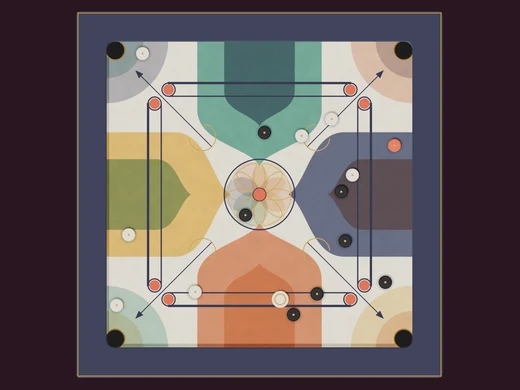
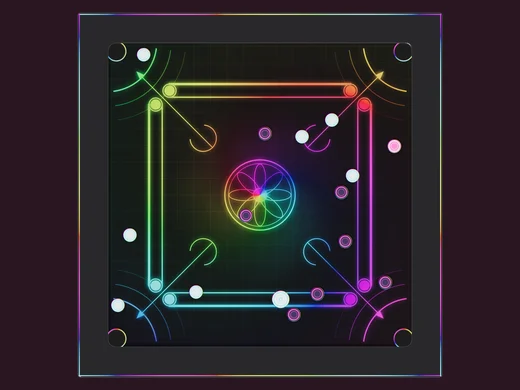
Carrom: neon is the default board (first in the list, top screenshot), new tycoon board (gold leaf, gems) (#1292)
Claude-Session: https://claude.ai/code/session_019p8B6UqeAdsK6vNEgpDiqd

diff --git a/atlas/models/carrom.js b/atlas/models/carrom.js
@@ -18,6 +18,9 @@
    · 'bauhaus'   geometry in primaries on off-white paper: a red circle, a blue square, a yellow triangle and black bars, the
               markings in black. A matte black frame with a sharp edge. Men in matte white and black, a red queen, a yellow
               striker with a black ring.
+   · 'tycoon'    a millionaire's board: a field of hammered gold leaf laid in tiles, engraved markings, ruby base circles and a ruby
+              centre, sunbursts engraved in the corners; a polished gold frame set with cabochon rubies, sapphires and emeralds
+              and a diamond at each corner. Men of pearl and onyx ringed in gold, a ruby queen, a gold coin for the striker.
    Real proportions (ICF laws): surface 74 cm, frame 7 cm, pockets 4.45 cm, men 3.18 cm, striker 4.13 cm.
    Registers into Table3D:
      Table3D.MODELS.carrom(live)   board (+ the opening arrangement and a striker unless live)
@@ -33,8 +36,8 @@
   const SZ = v => Math.round(v * (X.texScale ? X.texScale() : 1));
   const K = 10 / 88, S = 37 * K, FW = 7 * K, FH = 2.2 * K, TOP = .26, RP = 2.225 * K, PC = (37 - 2.225) * K;
   const RM = 1.59 * K, RS = 2.065 * K, HM = .8 * K, HS = .9 * K;
-  const LOOKS = ['classic', 'modern', 'neon', 'rajasthan', 'bauhaus'];
-  const PRE = { classic: '', modern: 'm', neon: 'n', rajasthan: 'r', bauhaus: 'h' };   // the piece-face kinds of each look
+  const LOOKS = ['classic', 'modern', 'neon', 'rajasthan', 'bauhaus', 'tycoon'];
+  const PRE = { classic: '', modern: 'm', neon: 'n', rajasthan: 'r', bauhaus: 'h', tycoon: 't' };   // the piece-face kinds of each look
   const lin = c => new (T().Color)(c).convertSRGBToLinear();
   function phys(o) {
     const TT = T(), p = Object.assign({}, o);
@@ -44,7 +47,7 @@
     return new TT[p.clearcoat !== undefined ? 'MeshPhysicalMaterial' : 'MeshStandardMaterial'](p);
   }
   const mats = {}, mat = (k, f) => mats[k] || (mats[k] = f());
-  const lookNow = () => X.BOARDS && X.BOARDS.carrom ? X.BOARDS.carrom.get() : 'modern';
+  const lookNow = () => X.BOARDS && X.BOARDS.carrom ? X.BOARDS.carrom.get() : 'neon';
 
   /* ---------- the playing surface: a canvas in board centimetres ---------- */
   const PAL = {
@@ -53,6 +56,7 @@
     neon: { ink: '#3ce6ff', red: '#ff3fb4', gold: '#b47bff', glow: 1.1 },
     rajasthan: { ink: '#5a1414', red: '#c7262c', gold: '#8a1c1c' },
     bauhaus: { ink: '#111111', red: '#d6332a', gold: null },
+    tycoon: { ink: '#3a2408', red: '#a3122c', gold: '#5a3a10' },
   };
   function markings(g, W, look) {
     const P = PAL[look], u = W / 74, X0 = cm => (cm + 37) * u;
@@ -89,7 +93,7 @@
   function surfaceTex(look) {
     const W = SZ(2048);
     const t = X.canvasTex('crSurf' + look + W, W, W, (g) => {
-      const N = X.makeNoise({ classic: 17, modern: 41, neon: 5, rajasthan: 29, bauhaus: 53 }[look]), img = g.createImageData(W, W), d = img.data;
+      const N = X.makeNoise({ classic: 17, modern: 41, neon: 5, rajasthan: 29, bauhaus: 53, tycoon: 71 }[look]), img = g.createImageData(W, W), d = img.data;
       const u = W / 74, X0 = cm => (cm + 37) * u;
       const paper = (r, gg, b, amp, f) => { for (let y = 0; y < W; y++) for (let x = 0; x < W; x++) { const n = N(x / W * f, y / W * f, 2), i = (y * W + x) * 4; d[i] = r - n * amp; d[i + 1] = gg - n * amp; d[i + 2] = b - n * amp; d[i + 3] = 255; } g.putImageData(img, 0, 0); };
       const grain = a => { const im = g.getImageData(0, 0, W, W), q = im.data; for (let i = 0; i < q.length; i += 4) { const r = (Math.random() - .5) * a; q[i] += r; q[i + 1] += r; q[i + 2] += r; } g.putImageData(im, 0, 0); };
@@ -143,6 +147,19 @@
         sh('#d6332a', .9, () => g.arc(X0(0), X0(0), 3.2 * u, 0, 7));
         g.globalCompositeOperation = 'source-over'; g.globalAlpha = 1;
         grain(8);
+      } else if (look === 'tycoon') {
+        // gold leaf in 4 cm tiles (each a touch different), hammered; engraved sunbursts in the corners and a medallion ring
+        for (let y = 0; y < W; y++) for (let x = 0; x < W; x++) {
+          const cx = Math.floor(x / W * 74 / 4), cy = Math.floor(y / W * 74 / 4), tv = (Math.sin(cx * 12.9898 + cy * 78.233) * 43758.5453) % 1;
+          const n = N(x / W * 60, y / W * 60, 2) * .6 + N(x / W * 9, y / W * 9, 2) * .4, k = n * 30 + Math.abs(tv) * 18, i = (y * W + x) * 4;
+          d[i] = 250 - k; d[i + 1] = 206 - k * .9; d[i + 2] = 112 - k * .7; d[i + 3] = 255;
+        }
+        g.putImageData(img, 0, 0);
+        g.strokeStyle = 'rgba(120,80,20,.35)'; g.lineWidth = .06 * u; for (let c = -36; c <= 36; c += 4) { g.beginPath(); g.moveTo(X0(c), 0); g.lineTo(X0(c), W); g.stroke(); g.beginPath(); g.moveTo(0, X0(c)); g.lineTo(W, X0(c)); g.stroke(); }
+        quad(() => { g.strokeStyle = 'rgba(90,58,16,.55)'; g.lineWidth = .12 * u; for (let k = 0; k <= 12; k++) { const a = Math.PI + k / 12 * Math.PI / 2; g.beginPath(); g.moveTo(X0(37 + Math.cos(a) * 4.5), X0(37 + Math.sin(a) * 4.5)); g.lineTo(X0(37 + Math.cos(a) * 14), X0(37 + Math.sin(a) * 14)); g.stroke(); } g.beginPath(); g.arc(X0(37), X0(37), 14.5 * u, Math.PI, Math.PI * 1.5); g.stroke(); });
+        g.strokeStyle = 'rgba(90,58,16,.6)'; g.lineWidth = .1 * u; for (const r of [9.4, 10.2]) { g.beginPath(); g.arc(X0(0), X0(0), r * u, 0, 7); g.stroke(); }
+        g.fillStyle = 'rgba(90,58,16,.55)'; for (let k = 0; k < 24; k++) { const a = k / 24 * Math.PI * 2; g.beginPath(); g.arc(X0(Math.cos(a) * 9.8), X0(Math.sin(a) * 9.8), .22 * u, 0, 7); g.fill(); }
+        grain(6);
       } else if (look === 'classic') {
         // birch plywood: pale honey, long soft grain along x, a slow colour drift; lacquered (the gloss is the material's)
         for (let y = 0; y < W; y++) for (let x = 0; x < W; x++) {
@@ -201,9 +218,10 @@
   const FACE = { w: '#efe0c0', b: '#2b201a', q: '#c0262a', s: '#f4f1ea', mw: '#ece5d6', mb: '#2c2b2e', mq: '#e1694f', ms: '#efe6d2',
     nw: '#d8f6ff', nb: '#2a1f48', nq: '#ff4fbd', ns: '#eefcff', rw: '#f1e4c4', rb: '#2a1a12', rq: '#c7262c', rs: '#f3e8cc',
     hw: '#f2efe6', hb: '#161616', hq: '#d6332a', hs: '#f2c230' };
+  Object.assign(FACE, { tw: '#f3eee4', tb: '#151317', tq: '#a3122c', ts: '#d9ad55' });
   const SIDE = { w: '#e7d3ad', b: '#211813', q: '#a91f22', s: '#ece8de', mw: '#e3dccb', mb: '#26252a', mq: '#d55d45', ms: '#e7dcc5',
     nw: '#bfeeff', nb: '#3a2a66', nq: '#ff2fa8', ns: '#d9f7ff', rw: '#e6d4ac', rb: '#1f130d', rq: '#a91f22', rs: '#e8d9b4',
-    hw: '#e8e4d8', hb: '#111111', hq: '#c42a22', hs: '#e3b322' };
+    hw: '#e8e4d8', hb: '#111111', hq: '#c42a22', hs: '#e3b322', tw: '#d9b866', tb: '#d9b866', tq: '#d9b866', ts: '#c99a45' };
   function faceTex(kind) {
     const t = X.canvasTex('crFace' + kind, SZ(256), SZ(256), (g, W) => {
       const c = W / 2, base = FACE[kind];
@@ -221,6 +239,17 @@
         else if (kind === 'rb') { dotRing(.74, 14, .065, '#d9ad45'); lotus(6, .08, .42, .18, '#c99a2e'); }
         else if (kind === 'rq') { ring(.8, .035, '#e6c25a'); lotus(8, .1, .62, .22, '#e6c25a'); }
         else { ring(.84, .04, '#b3262e'); lotus(8, .12, .66, .2, '#b3262e'); lotus(8, .1, .4, .14, '#c99a2e'); }
+      } else if (kind[0] === 't') {   // tycoon: pearl, onyx and ruby faces ringed in gold; the striker a gold coin with a crown
+        if (kind !== 'ts') {
+          if (kind === 'tw') { const gr = g.createRadialGradient(c * .8, c * .7, 0, c, c, c); gr.addColorStop(0, '#fffdf8'); gr.addColorStop(.6, '#efe6dc'); gr.addColorStop(1, '#e2d6e6'); g.fillStyle = gr; g.fillRect(0, 0, W, W); }
+          if (kind === 'tq') { for (let k = 0; k < 8; k++) { const a = k / 8 * Math.PI * 2; g.fillStyle = k % 2 ? 'rgba(255,255,255,.12)' : 'rgba(0,0,0,.14)'; g.beginPath(); g.moveTo(c, c); g.arc(c, c, c * .7, a, a + Math.PI / 4); g.closePath(); g.fill(); } }
+          ring(.86, .08, '#d4a64e'); ring(.62, .02, '#d4a64e');
+        } else {
+          ring(.84, .05, '#9a7128'); ring(.7, .015, '#9a7128');
+          g.fillStyle = '#8a6222'; g.beginPath(); const y0 = c * 1.22, y1 = c * .72;   // a crown
+          g.moveTo(c * .52, y0); g.lineTo(c * .48, y1); g.lineTo(c * .72, c * .95); g.lineTo(c, c * .6); g.lineTo(c * 1.28, c * .95); g.lineTo(c * 1.52, y1); g.lineTo(c * 1.48, y0); g.closePath(); g.fill();
+          g.fillRect(c * .5, c * 1.28, c, c * .1);
+        }
       } else if (kind[0] === 'h') {   // bauhaus: flat colour, one clean ring
         ring(.62, .06, { hw: '#111111', hb: '#f0ece2', hq: '#f2c230', hs: '#111111' }[kind]);
         if (kind === 'hs') { g.fillStyle = '#1f4fa3'; g.beginPath(); g.arc(c, c, c * .24, 0, 7); g.fill(); }
@@ -270,7 +299,7 @@
     const sh = new TT.Shape(); { const r = ro, a = -o, b = o; sh.moveTo(a + r, a); sh.lineTo(b - r, a); sh.quadraticCurveTo(b, a, b, a + r); sh.lineTo(b, b - r); sh.quadraticCurveTo(b, b, b - r, b); sh.lineTo(a + r, b); sh.quadraticCurveTo(a, b, a, b - r); sh.lineTo(a, a + r); sh.quadraticCurveTo(a, a, a + r, a); }
     const hole = new TT.Path(); { const r = ri, a = -S, b = S; hole.moveTo(a + r, a); hole.lineTo(b - r, a); hole.quadraticCurveTo(b, a, b, a + r); hole.lineTo(b, b - r); hole.quadraticCurveTo(b, b, b - r, b); hole.lineTo(a + r, b); hole.quadraticCurveTo(a, b, a, b - r); hole.lineTo(a, a + r); hole.quadraticCurveTo(a, a, a + r, a); }
     sh.holes.push(hole);
-    const bev = { modern: .02, bauhaus: .012, neon: .03 }[look] || .045;
+    const bev = { modern: .02, bauhaus: .012, neon: .03, tycoon: .05 }[look] || .045;
     const g = new TT.ExtrudeGeometry(sh, { depth: TOP + FH - bev * 2, bevelEnabled: true, bevelThickness: bev, bevelSize: bev, bevelSegments: LO() ? 2 : 3, curveSegments: LO() ? 4 : 8 });
     g.rotateX(-Math.PI / 2); g.translate(0, bev, 0);
     // UVs along the rails (wood grain runs along each rail)
@@ -332,6 +361,14 @@
         frame: phys({ map: fw, color: '#ffffff', roughness: .32, clearcoat: .8, clearcoatRoughness: .2, envMapIntensity: 1 }),
         brass, edge: brass, rim: brass, cup: phys({ color: '#0f0b08', roughness: .9 }), net: phys({ map: netTex(), color: '#ffffff', roughness: 1 }) };
     });
+    if (look === 'tycoon') return mat('bm' + look, () => {
+      const gold = phys({ color: '#f2c766', roughness: .16, metalness: 1, envMapIntensity: 1.6 }); gold.emissive = new TT.Color(0x5a3c0c);   // (a warm glow of its own: the rooms are too dim for polished metal)
+      const gem = (c, e) => { const m = phys({ color: c, roughness: .04, metalness: 0, clearcoat: 1, clearcoatRoughness: .02, envMapIntensity: 2.2 }); m.emissive = lin(e); return m; };
+      const st = surfaceTex(look), surf = phys({ map: st, color: '#ffffff', roughness: .28, metalness: .3, clearcoat: .7, clearcoatRoughness: .12, envMapIntensity: 1.2 }); surf.emissiveMap = st; surf.emissive = new TT.Color(.16, .13, .08);
+      return { surf,
+        frame: gold, brass: gold, edge: null, rim: gold, cup: phys({ color: '#120d06', roughness: .9 }), net: phys({ map: netTex(), color: '#ffffff', roughness: 1 }),
+        ruby: gem('#b5102e', '#3a0310'), sapphire: gem('#1d3fb0', '#06103a'), emerald: gem('#11895a', '#032a18'), diamond: gem('#f4f8ff', '#3a4250') };
+    });
     if (look === 'bauhaus') return mat('bm' + look, () => ({
       surf: phys({ map: surfaceTex(look), color: '#ffffff', roughness: .62, metalness: 0, envMapIntensity: .55 }),
       frame: phys({ color: '#141414', roughness: .55, metalness: 0, envMapIntensity: .6 }),
@@ -360,9 +397,11 @@
     const m = (PRE[look] || '') + c;
     return mat('pc' + m, () => {
       const t = faceTex(m), side = SIDE[m];
-      const glossy = look === 'classic' || look === 'rajasthan' || look === 'neon';
+      const glossy = look === 'classic' || look === 'rajasthan' || look === 'neon' || look === 'tycoon';
       const top = phys({ map: t, color: '#ffffff', roughness: glossy ? (c === 's' ? .3 : .38) : .62, clearcoat: glossy ? .35 : undefined, clearcoatRoughness: glossy ? .35 : undefined, envMapIntensity: glossy ? .85 : .6 });   // (no bump map: on discs this small it sparkled as the camera moved)
-      if (look === 'neon') { top.emissiveMap = t; top.emissive = new (T().Color)(.55, .55, .55); }   // acrylic lit from inside: the rings glow, the smoked men stay dark
+      if (look === 'neon') { top.emissiveMap = t; top.emissive = new (T().Color)(.55, .55, .55); }
+      if (look === 'tycoon') { top.roughness = c === 's' ? .25 : .2; top.clearcoat = .8; top.clearcoatRoughness = .08; if (c === 's') top.metalness = .85; }   // pearl, onyx, ruby polished; the coin is metal
+      if (look === 'tycoon') return { top, side: phys({ color: SIDE[m], roughness: .22, metalness: 1, envMapIntensity: 1.2 }) };   // acrylic lit from inside: the rings glow, the smoked men stay dark
       return { top, side: phys({ color: side, roughness: glossy ? .34 : .6, clearcoat: glossy ? .5 : undefined, clearcoatRoughness: glossy ? .25 : undefined, envMapIntensity: glossy ? .9 : .55 }) };
     });
   }
@@ -412,6 +451,18 @@
       const cup = new TT.Mesh(cupG, new TT.MeshStandardMaterial({ color: 0x0c0b0a, roughness: 1, side: TT.BackSide })); cup.position.set(sx * PC, (TOP + .05) / 2, sz * PC); g.add(cup);
       const net = new TT.Mesh(netG, BM.net); net.position.set(sx * PC, .07, sz * PC); g.add(net);
       if (BM.rim) { const rg = geos.prim || (geos.prim = (() => { const q = new TT.TorusGeometry(RP + .012, .014, 6, LO() ? 20 : 36); q.rotateX(Math.PI / 2); if (X.share) X.share(q); return q; })()); const rim = new TT.Mesh(rg, BM.rim); rim.position.set(sx * PC, TOP + .004, sz * PC); g.add(rim); }
+    }
+    if (BM.ruby) {   // cabochons along the frame (ruby · sapphire · emerald · sapphire · ruby …) and a diamond at each corner
+      const cab = geos.cab || (geos.cab = (() => { const q = new TT.SphereGeometry(.15, LO() ? 12 : 20, LO() ? 6 : 10, 0, Math.PI * 2, 0, Math.PI / 2); q.scale(1, .55, 1); if (X.share) X.share(q); return q; })());
+      const dia = geos.dia || (geos.dia = (() => { const q = new TT.OctahedronGeometry(.21, 0); q.scale(1, .8, 1); if (X.share) X.share(q); return q; })());
+      const set = geos.bez || (geos.bez = (() => { const q = new TT.TorusGeometry(.16, .022, 6, LO() ? 16 : 24); q.rotateX(Math.PI / 2); if (X.share) X.share(q); return q; })());
+      const ym = TOP + FH, mid = S + FW / 2, order = [BM.ruby, BM.sapphire, BM.emerald, BM.sapphire, BM.ruby];
+      for (let side = 0; side < 4; side++) for (let k = 0; k < 5; k++) {
+        const t = (k - 2) * S * .42, x = side < 2 ? t : (side === 2 ? -mid : mid), z = side < 2 ? (side === 0 ? -mid : mid) : t;
+        const st = new TT.Mesh(cab, order[k]); st.position.set(x, ym, z); st.castShadow = true; g.add(st);
+        const bz = new TT.Mesh(set, BM.frame); bz.position.set(x, ym + .004, z); g.add(bz);
+      }
+      for (const [sx, sz] of [[-1, -1], [1, -1], [-1, 1], [1, 1]]) { const dm = new TT.Mesh(dia, BM.diamond); dm.position.set(sx * mid, ym + .1, sz * mid); dm.rotation.y = Math.PI / 4; dm.castShadow = true; g.add(dm); }
     }
     if (BM.edge) {   // brass edging (a neon tube on the night board) along the frame's top outer edge
       const e = new TT.Mesh(new TT.BoxGeometry(2 * (S + FW) - .02, .012, .03), BM.edge);

diff --git a/atlas/tables3d.js b/atlas/tables3d.js
@@ -136,6 +136,7 @@
     neon: { ja: 'ネオン 3D', en: 'Neon 3D', zh: '霓虹 3D', ko: '네온 3D', es: 'Neón 3D', fr: 'Néon 3D', pt: 'Neon 3D', de: 'Neon 3D', hi: 'नियॉन 3D', ar: 'نيون ثلاثي', ru: 'Неон 3D', 'zh-TW': '霓虹 3D', id: '3D neon', tr: 'Neon 3D' },
     rajasthan: { ja: 'ラジャスタン 3D', en: 'Rajasthani 3D', zh: '拉贾斯坦 3D', ko: '라자스탄 3D', es: 'Rajastán 3D', fr: 'Rajasthan 3D', pt: 'Rajastão 3D', de: 'Rajasthan 3D', hi: 'राजस्थानी 3D', ar: 'راجستان ثلاثي', ru: 'Раджастхан 3D', 'zh-TW': '拉賈斯坦 3D', id: '3D Rajasthan', tr: 'Racastan 3D' },
     bauhaus: { ja: 'バウハウス 3D', en: 'Bauhaus 3D', zh: '包豪斯 3D', ko: '바우하우스 3D', es: 'Bauhaus 3D', fr: 'Bauhaus 3D', pt: 'Bauhaus 3D', de: 'Bauhaus 3D', hi: 'बाउहाउस 3D', ar: 'باوهاوس ثلاثي', ru: 'Баухаус 3D', 'zh-TW': '包浩斯 3D', id: '3D Bauhaus', tr: 'Bauhaus 3D' },
+    tycoon: { ja: '大富豪 3D', en: 'Tycoon 3D', zh: '大富豪 3D', ko: '대부호 3D', es: 'Magnate 3D', fr: 'Magnat 3D', pt: 'Magnata 3D', de: 'Tycoon 3D', hi: 'रईस 3D', ar: 'الثري ثلاثي', ru: 'Магнат 3D', 'zh-TW': '大富豪 3D', id: '3D Konglomerat', tr: 'Milyoner 3D' },
   };
   const BOARDS = {
     // atlas/skin/chess.js: 'atlas-chess-pc' = the piece set ('1' lux · 'wood' · '0' the 2D pieces), '-bd' = the board's wood
@@ -159,12 +160,12 @@
       get: () => { try { const d = (JSON.parse(ls.get('aicoding-senet') || '{}').settings || {}).design; return ['faience', 'papyrus', 'night'].includes(d) ? d : 'tut'; } catch (e) { return 'tut'; } },
       set: k => { try { const o = JSON.parse(ls.get('aicoding-senet') || '{}') || {}; o.settings = o.settings || {}; o.settings.design = k; ls.set('aicoding-senet', JSON.stringify(o)); } catch (e) {} } },
     konane: { list: ['papamu', 'quilt'], get: () => ls.get('atlas-konane-look') === 'quilt' ? 'quilt' : 'papamu', set: k => ls.set('atlas-konane-look', k) },
-    // carrom (3D only): 'atlas-carrom-look' ('modern' the default | 'classic' | 'neon' | 'rajasthan' | 'bauhaus')
-    carrom: { list: ['modern', 'classic', 'neon', 'rajasthan', 'bauhaus'], get: () => { const v = ls.get('atlas-carrom-look'); return ['classic', 'neon', 'rajasthan', 'bauhaus'].includes(v) ? v : 'modern'; }, set: k => ls.set('atlas-carrom-look', k) },
+    // carrom (3D only): 'atlas-carrom-look' ('neon' the default | 'modern' | 'classic' | 'rajasthan' | 'bauhaus' | 'tycoon')
+    carrom: { list: ['neon', 'modern', 'classic', 'rajasthan', 'bauhaus', 'tycoon'], get: () => { const v = ls.get('atlas-carrom-look'); return ['modern', 'classic', 'rajasthan', 'bauhaus', 'tycoon'].includes(v) ? v : 'neon'; }, set: k => ls.set('atlas-carrom-look', k) },
   };
   X.BOARDS = BOARDS;
   X.boardName = (k, lang) => { const o = N3[k]; return o ? o[lang] || o.en : k; };
-  X.boardThumb = (id, k) => new URL('img/board-' + id + '-' + k + '.webp?v=' + (id === 'senet' ? 3 : id === 'carrom' ? 3 : id === 'konane' ? 2 : 1), ME).href;
+  X.boardThumb = (id, k) => new URL('img/board-' + id + '-' + k + '.webp?v=' + (id === 'senet' ? 3 : id === 'carrom' ? 4 : id === 'konane' ? 2 : 1), ME).href;
   // choose a board for a game: the shared key is written and the showcase board (if it is that game's) is rebuilt at once
   X.setBoard = (id, k) => { const B = BOARDS[id]; if (!B || !B.list.includes(k)) return; B.set(k); try { dispatchEvent(new CustomEvent('atlas-board', { detail: { id, look: k } })); } catch (e) {} };
   PLACES.ui.board = { ja: '盤', en: 'Board', zh: '棋盘', ko: '판', es: 'Tablero', fr: 'Plateau', pt: 'Tabuleiro', de: 'Brett', hi: 'बोर्ड', ar: 'اللوحة', ru: 'Доска', 'zh-TW': '棋盤', id: 'Papan', tr: 'Tahta' };

diff --git a/index.html b/index.html
@@ -858,7 +858,7 @@ const GAMES = [
   { id:'ur',         href:'./ur/',            thumb:'images/ur.webp',          icon:'images/icons/ur.svg',          cat:'hist', also:['race'], kind:'BOARD GAME', key:'ur',   isNew:true,  tags:['classic','ai','online','rated','lessons','puzzles','variants','mobile'], facts:{ ai:20, players:'1–2' } },
   { id:'senet',      href:'./senet/',         thumb:'images/senet.webp?v=2',       icon:'images/icons/senet.svg?v=2',       cat:'hist', also:['race'], kind:'BOARD GAME', key:'sn',   isNew:true,  tags:['classic','ai','online','rated','lessons','puzzles','variants','mobile'], facts:{ ai:20, players:'1–2' } },
   { id:'ludo',       href:'./ludo/',          thumb:'images/ludo.webp?v=2',          icon:'images/icons/ludo.svg',            cat:'race', also:['hist'], kind:'BOARD GAME', key:'ld',   isNew:true, beta:1,  tags:['classic','ai','rated','lessons','variants','mobile'], facts:{ ai:20, lessons:10, players:'1–4' } },
-  { id:'carrom',     href:'./atlas/#games/carrom', thumb:'images/carrom.webp?v=3',  icon:'images/icons/carrom.svg',          cat:'action', kind:'3D BOARD GAME', key:'cr',   isNew:true, beta:1,  tags:['classic','ai','mobile'], facts:{ ai:20, players:'1–2' } },
+  { id:'carrom',     href:'./atlas/#games/carrom', thumb:'images/carrom.webp?v=4',  icon:'images/icons/carrom.svg',          cat:'action', kind:'3D BOARD GAME', key:'cr',   isNew:true, beta:1,  tags:['classic','ai','mobile'], facts:{ ai:20, players:'1–2' } },
   { id:'reversi-v3', href:'./reversi_v3.html',thumb:'images/reversi_v3.webp',  icon:'images/icons/reversi-v3.svg?v=3',  cat:'old',     kind:'BOARD GAME', key:'rv3',  tags:['mobile'], facts:{ players:'1–2' } },
 ];
 const GX_CATS = ['all', 'board', 'puzzle', 'card', 'chess', 'line', 'race', 'hist', 'action', 'old'];   // 'classic' and 'card' are tag chips (filter on g.tags)   // same categories as the portal (atlas) + previous versions

diff --git a/atlas/index.html b/atlas/index.html
@@ -1632,7 +1632,7 @@ html:has(#bv.on,#hist.on,#ov.on,.lvsheet) :is(.updline,#gsSeg),.updline[hidden],
 <script src="i18n.js?v=59n"></script>
 <script src="gamelist-i18n.js?v=10n"></script>
 <script src="table3d.js?v=126"></script>
-<script src="tables3d.js?v=33"></script>
+<script src="tables3d.js?v=34"></script>
 <script src="models/shogi.js?v=23"></script>
 <script src="models/chess.js?v=14"></script>
 <script src="models/backgammon.js?v=118"></script>
@@ -1658,7 +1658,7 @@ html:has(#bv.on,#hist.on,#ov.on,.lvsheet) :is(.updline,#gsSeg),.updline[hidden],
 <script src="../ludo/board2d.js?v=5"></script>
 <script src="models/ludo.js?v=4"></script>
 <script src="../carrom/engine.js?v=2"></script>
-<script src="models/carrom.js?v=8"></script>
+<script src="models/carrom.js?v=9"></script>
 <script src="models/cardtables.js?v=4"></script>
 <script src="icons3d.js?v=34"></script>
 <script src="games/reversi.js?v=30"></script>
@@ -1730,7 +1730,7 @@ window.AtlasRgdTimer = function (btn, ms, alive) {
 <script src="gacha3d.js?v=7"></script>
 <script src="../shared/resign.js?v=3"></script><script src="../shared/drawoffer.js?v=1"></script>
 <script src="../shared/tick.js?v=2"></script>
-<script src="gamelist.js?v=23"></script>
+<script src="gamelist.js?v=24"></script>
 <link rel="stylesheet" href="worldmap.css?v=18">
 <script src="worldmap.js?v=29"></script>
 <script src="updnews.js?v=7"></script>

diff --git a/atlas/gamelist.js b/atlas/gamelist.js
@@ -5,7 +5,7 @@
   'use strict';
   const SHOTS = new Set(['shogi', 'chess', 'checkers', 'ugolki', 'fanorona', 'alquerque', 'xiangqi', 'janggi', 'tafl', 'reversi', 'go', 'gomoku', 'dots', 'connect4', 'morris', 'hex',
     'mancala', 'backgammon', 'sudoku', 'speedsudoku', 'samegame', 'jailbreak', 'poker', 'baccarat', 'blackjack', 'solitaire', 'ur', 'agon', 'konane', 'senet', 'ludo', 'carrom']);
-  const SHOT_V = 10;                                   // bump after regenerating the thumbnails
+  const SHOT_V = 11;                                   // bump after regenerating the thumbnails
   const FX = ['ai', 'online', 'lessons', 'puzzles'];  // the feature icons shown on a card (labels come from the tag.* strings)
 
   const IC = {   // small line icons for the footer buttons

diff --git a/atlas/tools/topdown.html b/atlas/tools/topdown.html
@@ -12,7 +12,7 @@
 <script src="../models/carrom.js"></script>
 <script>
 (function () {
-  const q = new URLSearchParams(location.search), id = q.get('game') || 'carrom', look = q.get('look') || 'modern', S = +q.get('px') || 1600;
+  const q = new URLSearchParams(location.search), id = q.get('game') || 'carrom', look = q.get('look') || 'neon', S = +q.get('px') || 1600;
   const X = window.Table3D; if (X.BOARDS[id]) X.BOARDS[id].set(look);
   const R = new THREE.WebGLRenderer({ antialias: true, alpha: true, preserveDrawingBuffer: true });
   R.setPixelRatio(1); R.setSize(S, S); R.shadowMap.enabled = true; R.shadowMap.type = THREE.PCFSoftShadowMap;

diff --git a/claude/carrom-spec.md b/claude/carrom-spec.md
@@ -7,11 +7,11 @@
 |---|---|
 | `carrom/engine.js` | ルール・物理・AI（DOMなし。ポータル・ルールコース・ワーカーで共用） |
 | `carrom/worker.js` | AIの思考（`CarromEngine.think` をワーカーで） |
-| `atlas/models/carrom.js` | 3D盤5種（モダンアート `modern`＝既定・クラシック `classic`・ネオン `neon`・ラジャスタン `rajasthan`・バウハウス `bauhaus`）と駒・クイーン・ストライカー。盤ごとに駒の顔も変わる（`PRE`／`FACE`／`SIDE`） |
+| `atlas/models/carrom.js` | 3D盤6種（ネオン `neon`＝既定・モダンアート `modern`・クラシック `classic`・ラジャスタン `rajasthan`・バウハウス `bauhaus`・大富豪 `tycoon`）と駒・クイーン・ストライカー。盤ごとに駒の顔も変わる（`PRE`／`FACE`／`SIDE`） |
 | `atlas/games/carrom.js` | 3D卓での対局（`Atlas3D.carrom`） |
 | `atlas/rules/carrom.js` | ルールコース（案内役：カワウソのオットー、`images/atlas/av/otter-1.webp`） |
 | `atlas/historia/s/carrom.json`・`atlas/historia/<lang>/carrom.json` | ヒストリア（14言語）。図は historia.js の `carrom` 型 |
-| `atlas/tools/topdown.html` | 3D盤を真上から透明背景で撮る道具（トップページ `images/carrom.webp` と一覧 `atlas/shots/carrom.webp` はこれで既定のモダンアート盤を撮る） |
+| `atlas/tools/topdown.html` | 3D盤を真上から透明背景で撮る道具（トップページ `images/carrom.webp` と一覧 `atlas/shots/carrom.webp` はこれで既定のネオン盤を撮る） |
 
 - 台帳：`shared/atlas.js` の GAMES に `only3d: true`（ポータルの「2Dで遊ぶ」リンクを出さない）、`href: 'atlas/#games/carrom'`（トップページからは大百科の3Dビューへ直接開く）。カテゴリは新設の `action`（アクション・おはじき、14言語）。テーマ色 #c23a7a（ラニピンク）。
 - トップページ：GAMES に `cat:'action'`・`beta:1`、`GX_CATS` に `action`、アイコン `images/icons/carrom.svg`。
@@ -46,8 +46,8 @@
 - 盤面反転：画面左下の丸ボタン（と F キー）で盤を180°回す（アニメーション、`atlas-flip-carrom` に記憶）。2人対戦の手番での回転に重ねる。反転中は自分のベースラインが画面の上になり、引く向きは盤の上で「的から離れる向き」のまま（画面では上へ引く）。対局が終わったら隠す。
 - カメラ：既定は斜めから見下ろす視点（pitch 0.82、パースあり）。反転ボタンの右の丸ボタンで「上から見る」（ほぼ真上、縦長1.36／横長1.3）と切り替え（`atlas-carrom-view`=`top`/`angle` に記憶）。
 - 描画：ウィンドウが前面にない（blur）・タブが隠れている間は、ストライカーの輪の点滅を止めて描画を止める（共通ルールのオンデマンド描画）。
-- 盤の名前：「モダンアート 3D」「クラシック 3D」「ネオン 3D」「ラジャスタン 3D」「バウハウス 3D」（`N3`、14言語）。選択は `atlas-carrom-look`、盤のサムネイルは `atlas/img/board-carrom-<look>.webp`（tools/boards.html で撮る）。
-- 盤の中身：ネオン＝黒漆に光る線（表面の emissiveMap）、枠の内縁とポケットに光る管、アクリル風の駒（顔が光る）。ラジャスタン＝サフランの地に小さなペイズリー、赤い縁取り帯と金の点、中央に蓮の曼荼羅、四隅に蓮の扇、シーシャム材の枠に真鍮。バウハウス＝生成りの紙に赤い円・青い正方形・黄色い三角・黒い棒、マットな黒枠。
+- 盤の名前：「ネオン 3D」（既定・一覧の先頭）「モダンアート 3D」「クラシック 3D」「ラジャスタン 3D」「バウハウス 3D」「大富豪 3D」（`N3`、14言語）。選択は `atlas-carrom-look`、盤のサムネイルは `atlas/img/board-carrom-<look>.webp`（tools/boards.html で撮る）。
+- 盤の中身：ネオン＝黒漆に光る線（表面の emissiveMap）、枠の内縁とポケットに光る管、アクリル風の駒（顔が光る）。ラジャスタン＝サフランの地に小さなペイズリー、赤い縁取り帯と金の点、中央に蓮の曼荼羅、四隅に蓮の扇、シーシャム材の枠に真鍮。バウハウス＝生成りの紙に赤い円・青い正方形・黄色い三角・黒い棒、マットな黒枠。大富豪＝4cm角の金箔を張った盤面（槌目）、彫りの印と放射線、ルビーの丸、磨いた金の枠にルビー・サファイア・エメラルドのカボション（各辺5つ）と四隅のダイヤ。駒は真珠と縞瑪瑙に金の縁、ルビーのクイーン、王冠を刻んだ金貨のストライカー。
 - ネオンの演出（ゲーミングRGB）：盤面の線・枠の縁・ポケットの輪・駒の縁のLEDリングが、時間とともに流れる虹色で光る（シェーダーで発光の色相だけを置き換える `rgbify`、明るさは素材のまま）。駒が駒・クッションに当たる・ポケットに落ちると、その駒の顔とLEDが強く光り、虹色の光の輪と広がる衝撃波の輪が0.5秒で消える（`userData.flash(k)`、エンジンのクッションの出来事に駒の番号 `i`）。ネオン盤の対局中は虹が途切れないよう描画し続ける（ウィンドウが前面のときだけ。背面・非表示では止める）。
 - 盤の切り替え：`atlas-carrom-look` を table3d.js の `stamp()` に入れる（入れないと、作り置き・取っておいた別の盤が出る）。
 - クラシックの枠：木目は各辺1枚で貼る（繰り返しの継ぎ目を出さない）。
